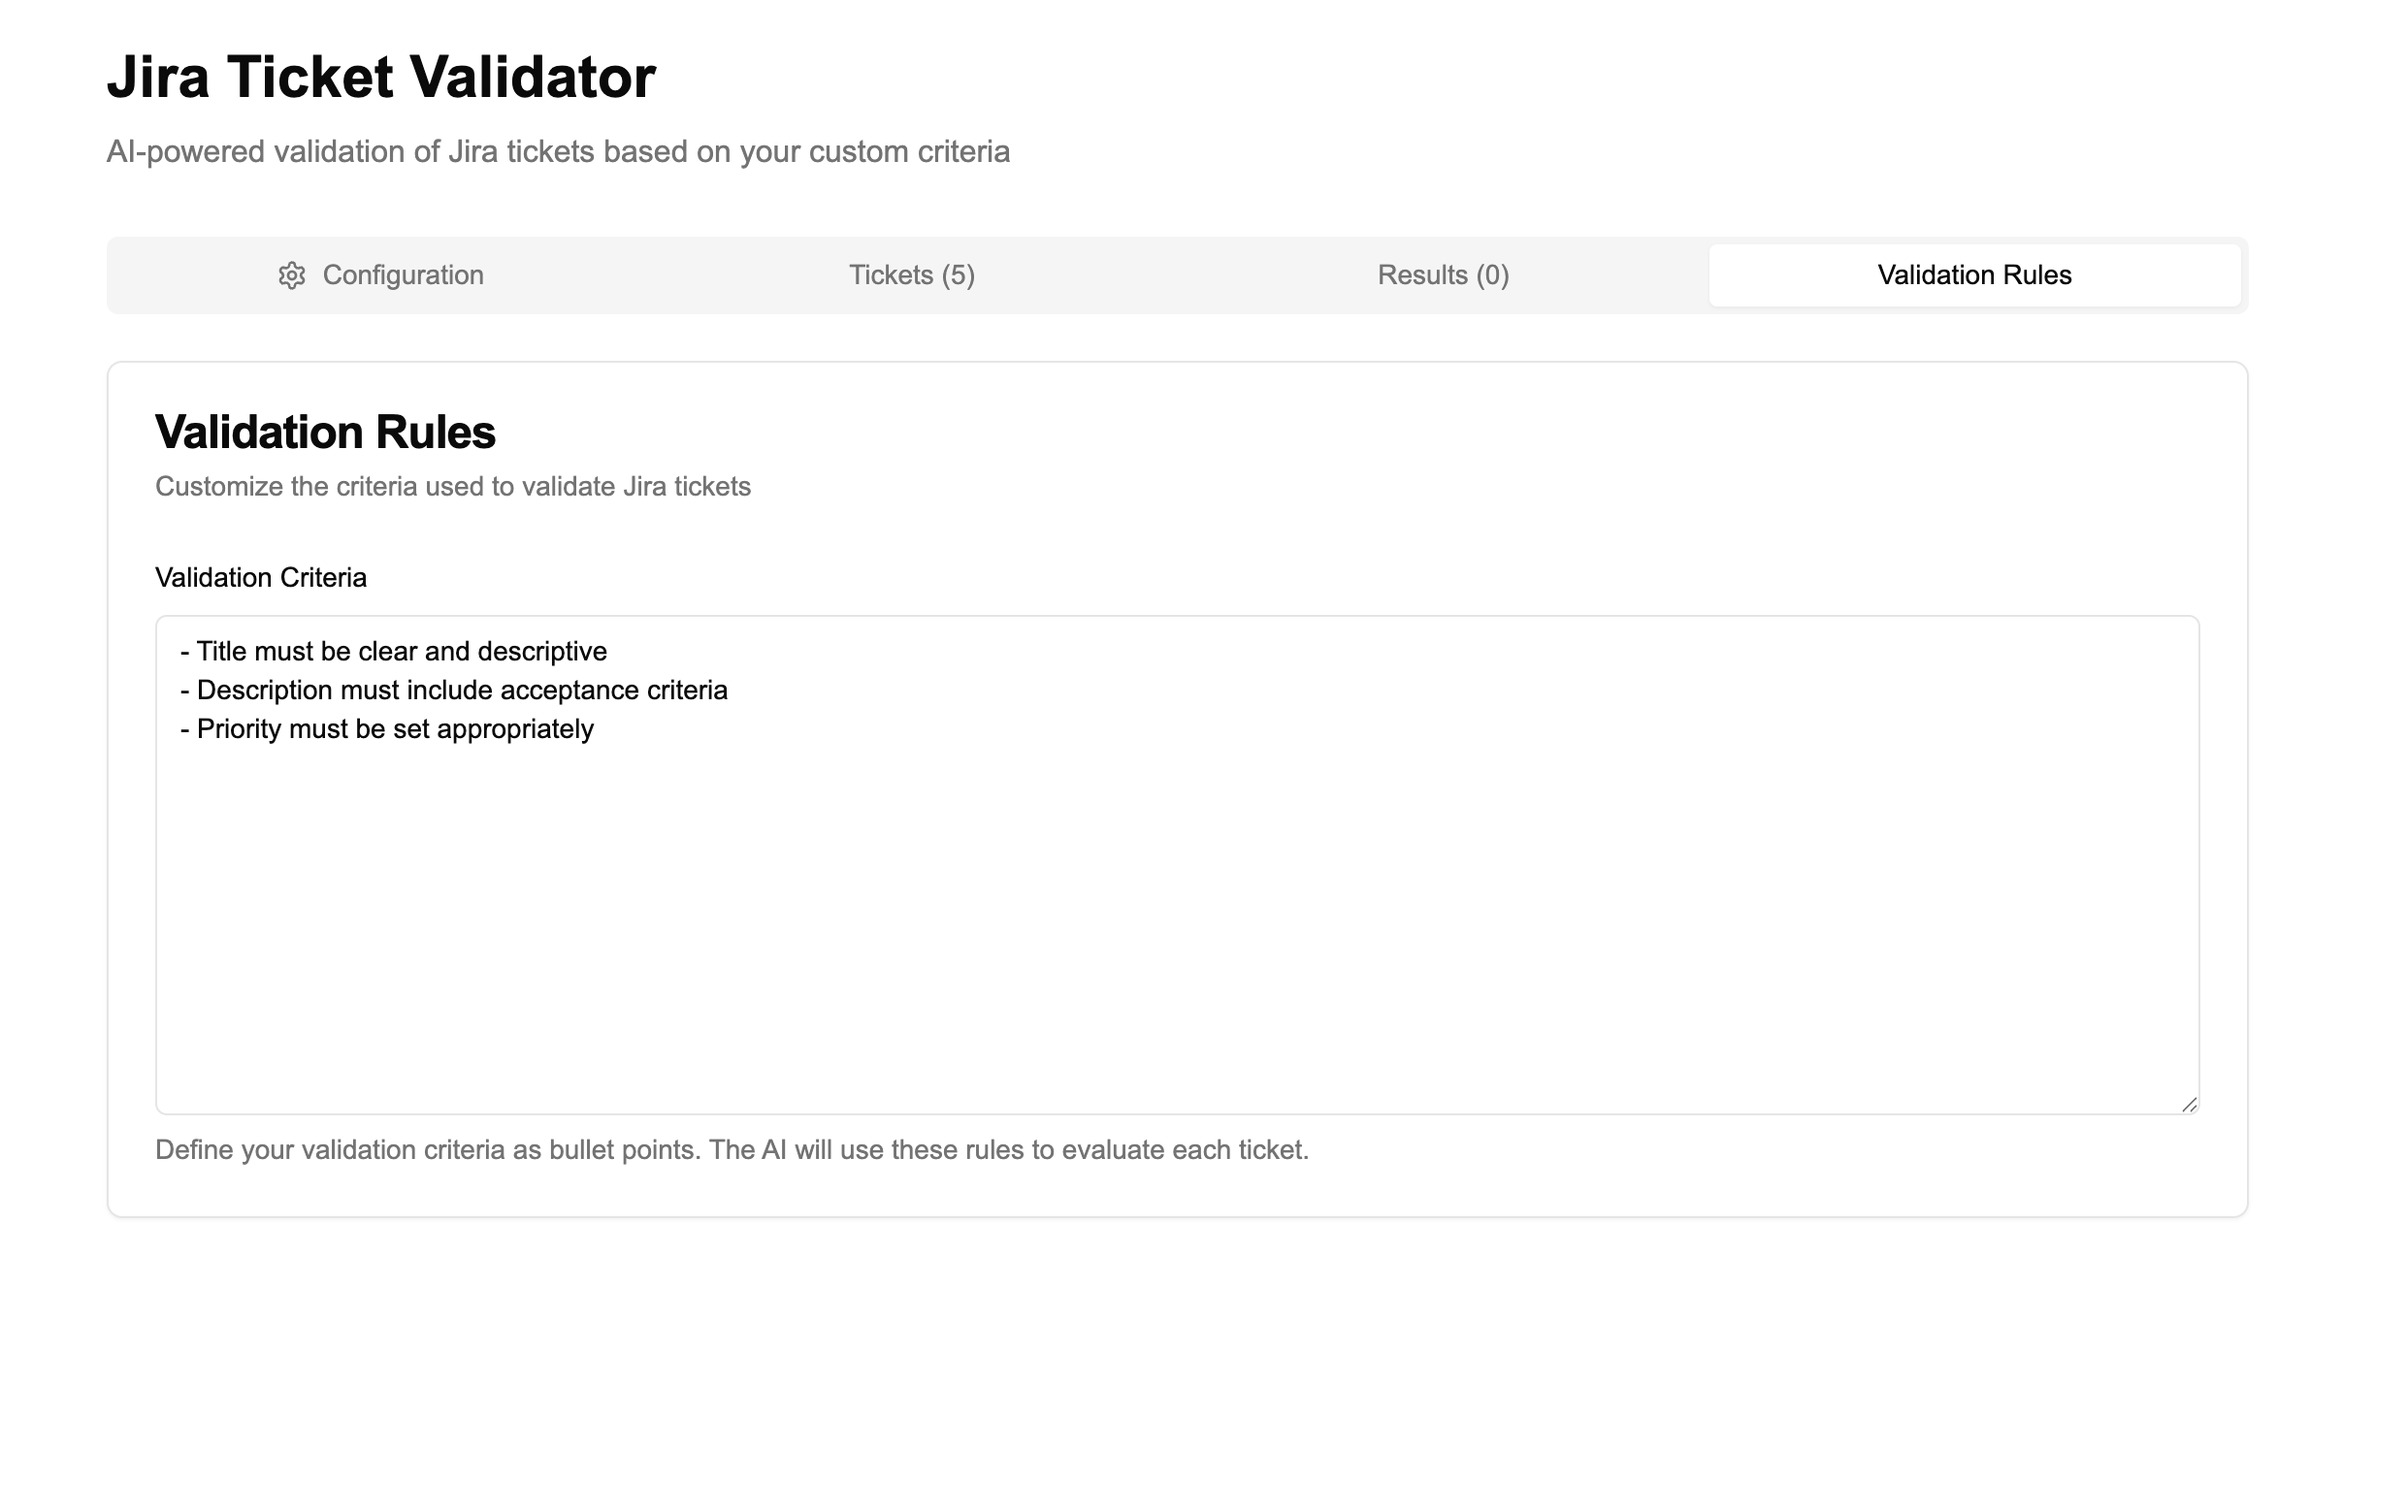
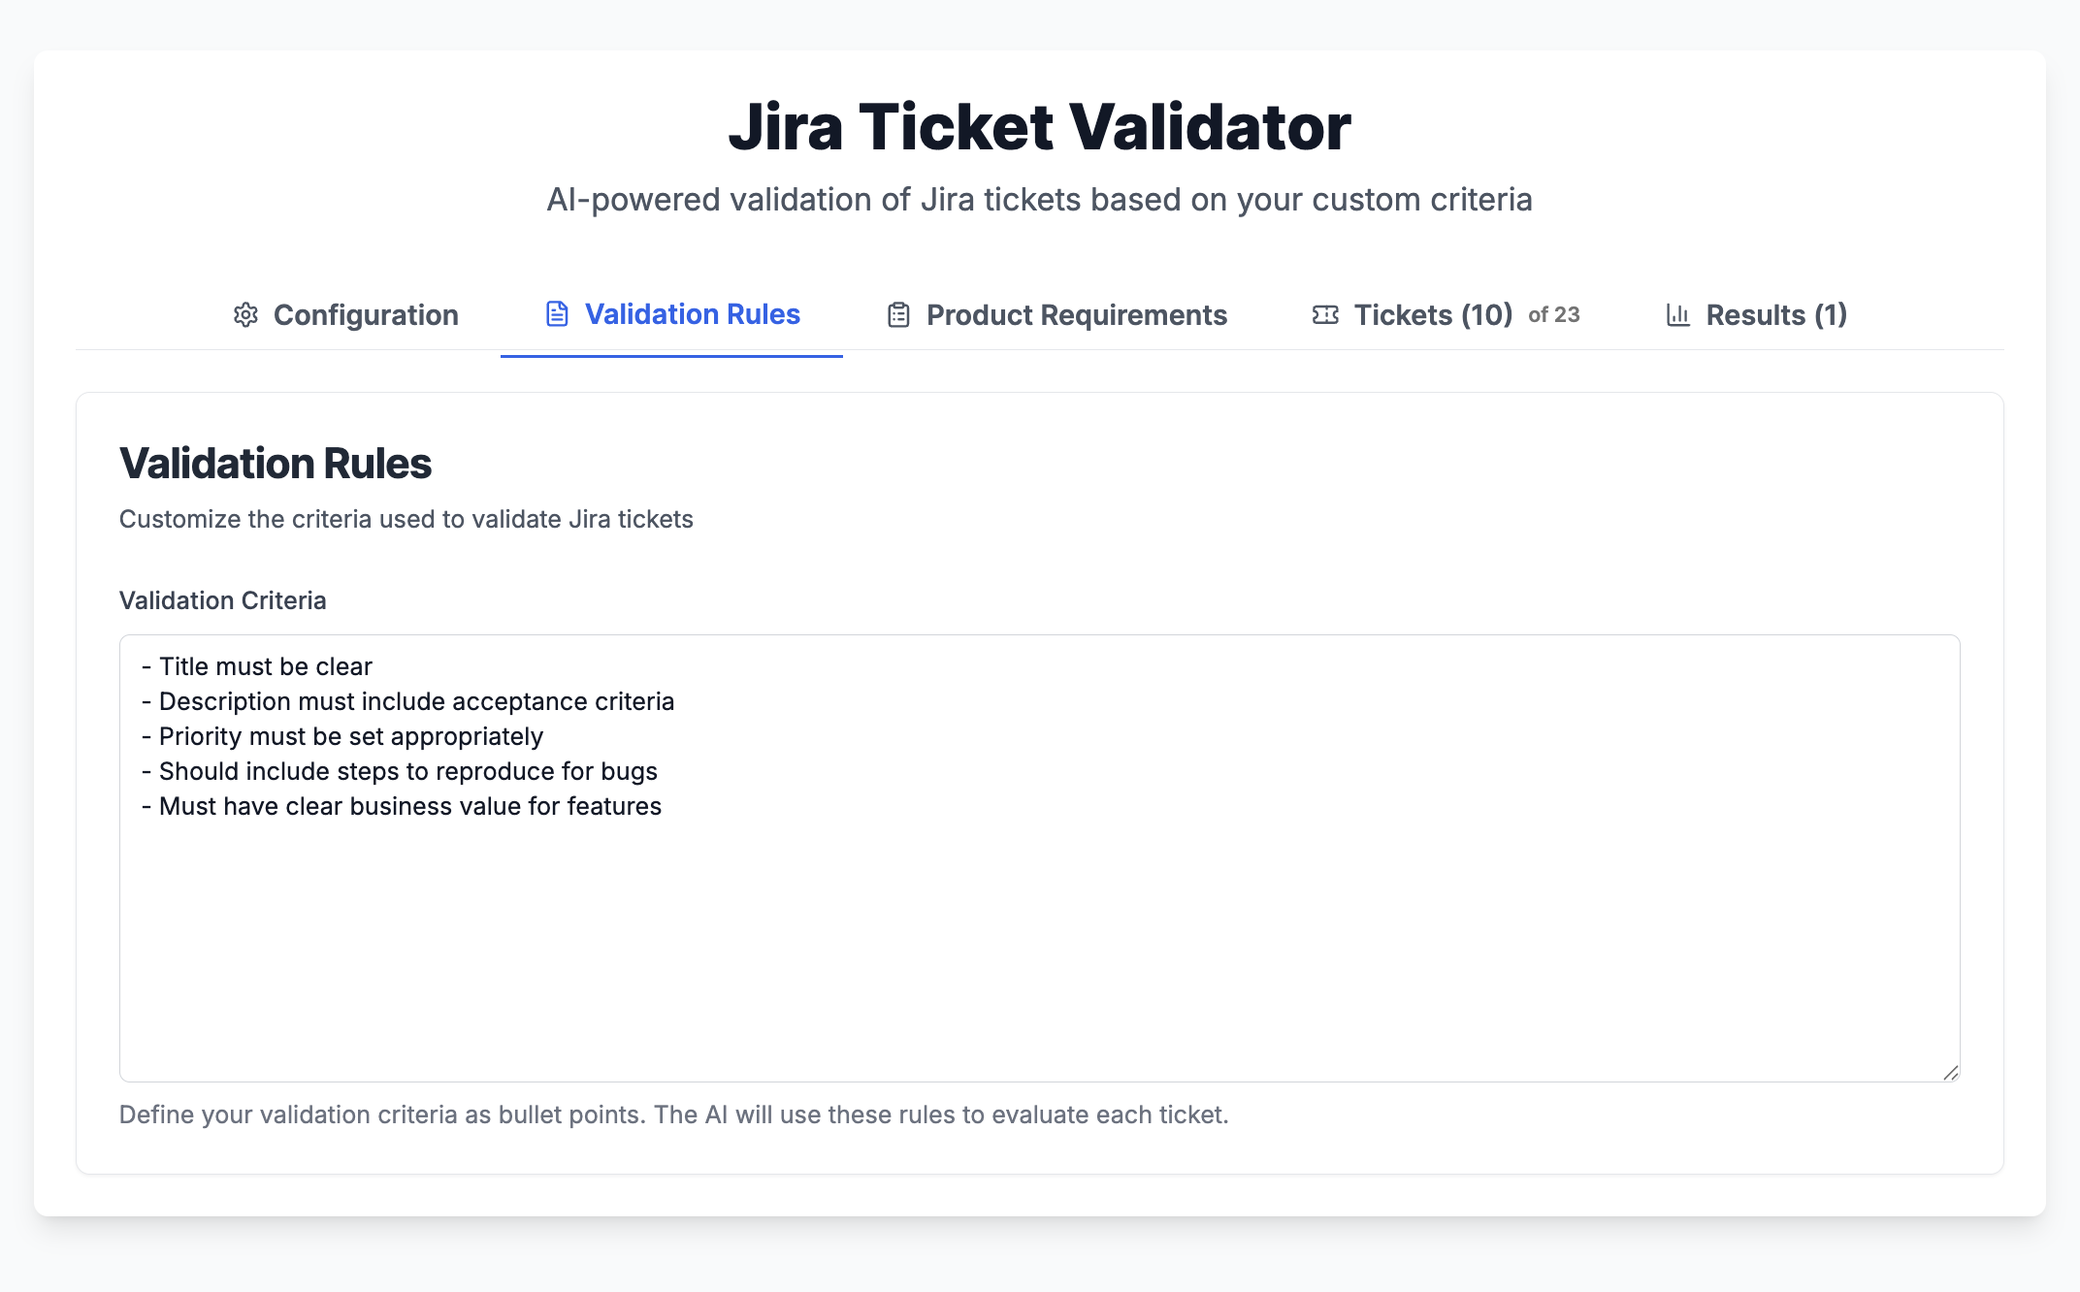
[main] docs: update demo screenshots with the latest app design

diff --git a/README.md b/README.md
@@ -27,7 +27,7 @@ This app uses a **OpenAI LLM with gpt-4o-mini model** to process each ticket aga
 
 ## ✅ Demo
 
-1. Access [http://localhost:3000/](http://localhost:3000/)
+1. Access [http://localhost:3000/](http://localhost:3000/) and add your Jira access "Configuration" (ex: Jira URL, Project Key, etc)
    ![Demo](./screenshots/screenshot_0.png "Demo")
 
 
@@ -35,15 +35,15 @@ This app uses a **OpenAI LLM with gpt-4o-mini model** to process each ticket aga
    ![Demo1](./screenshots/screenshot_1.png "Demo1")
 
 
-3. Add your Jira access "Configuration" (ex: Jira URL, Project Key, etc)
+3. Add your Product Requirements
    ![Dem02](./screenshots/screenshot_2.png "Demo2")
 
 
-4. Click on "Fetch Tickets"
+4. Fetch Tickets
    ![Demo3](./screenshots/screenshot_3.png "Demo3")
 
 
-5. After seeing your tickets, click on "Validate All Tickets"
+5. Validate your Tickets
    ![Demo4](./screenshots/screenshot_4.png "Demo4")
 
 ---
